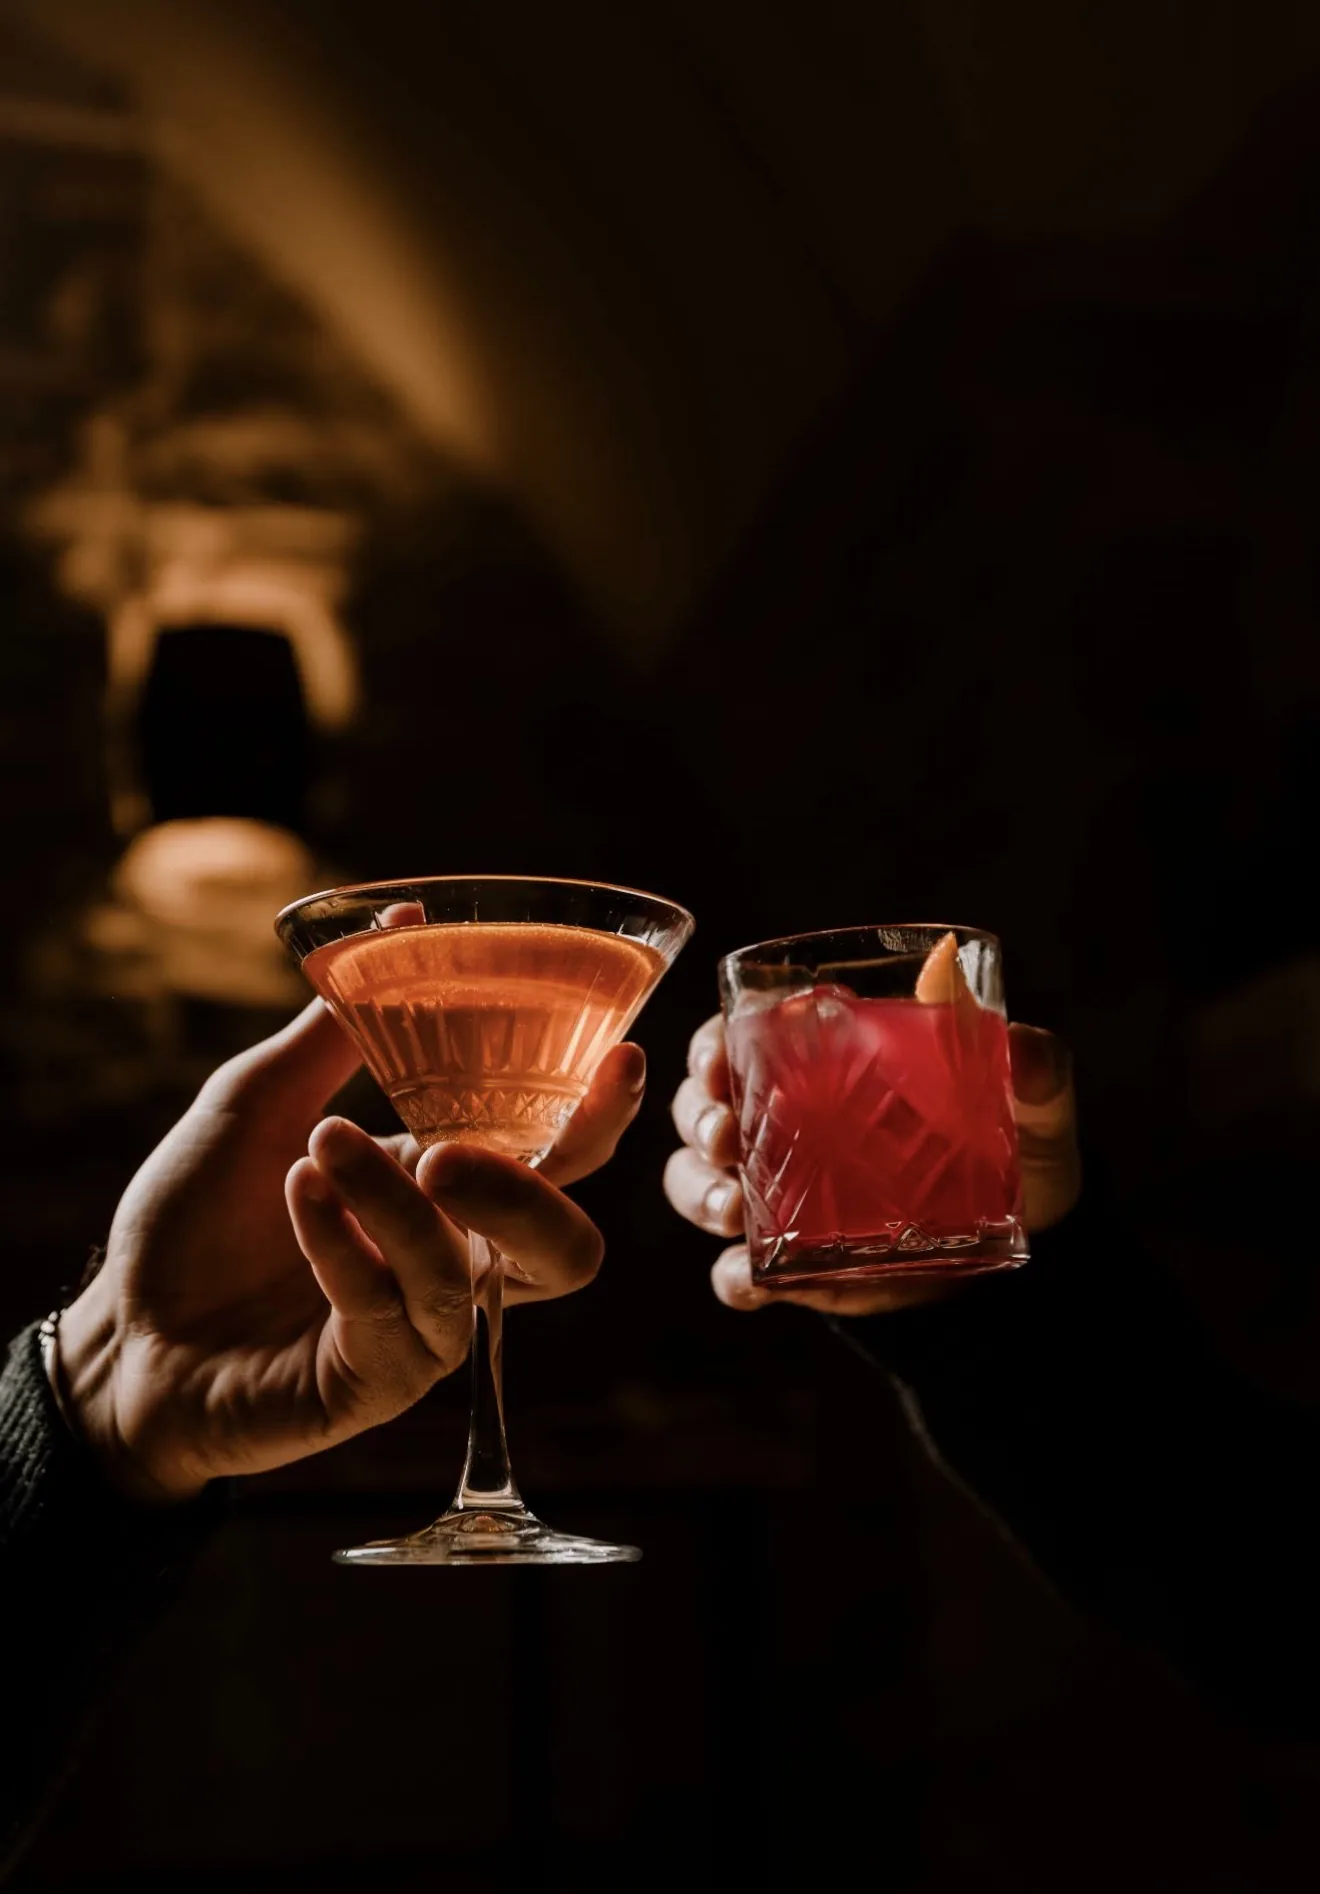
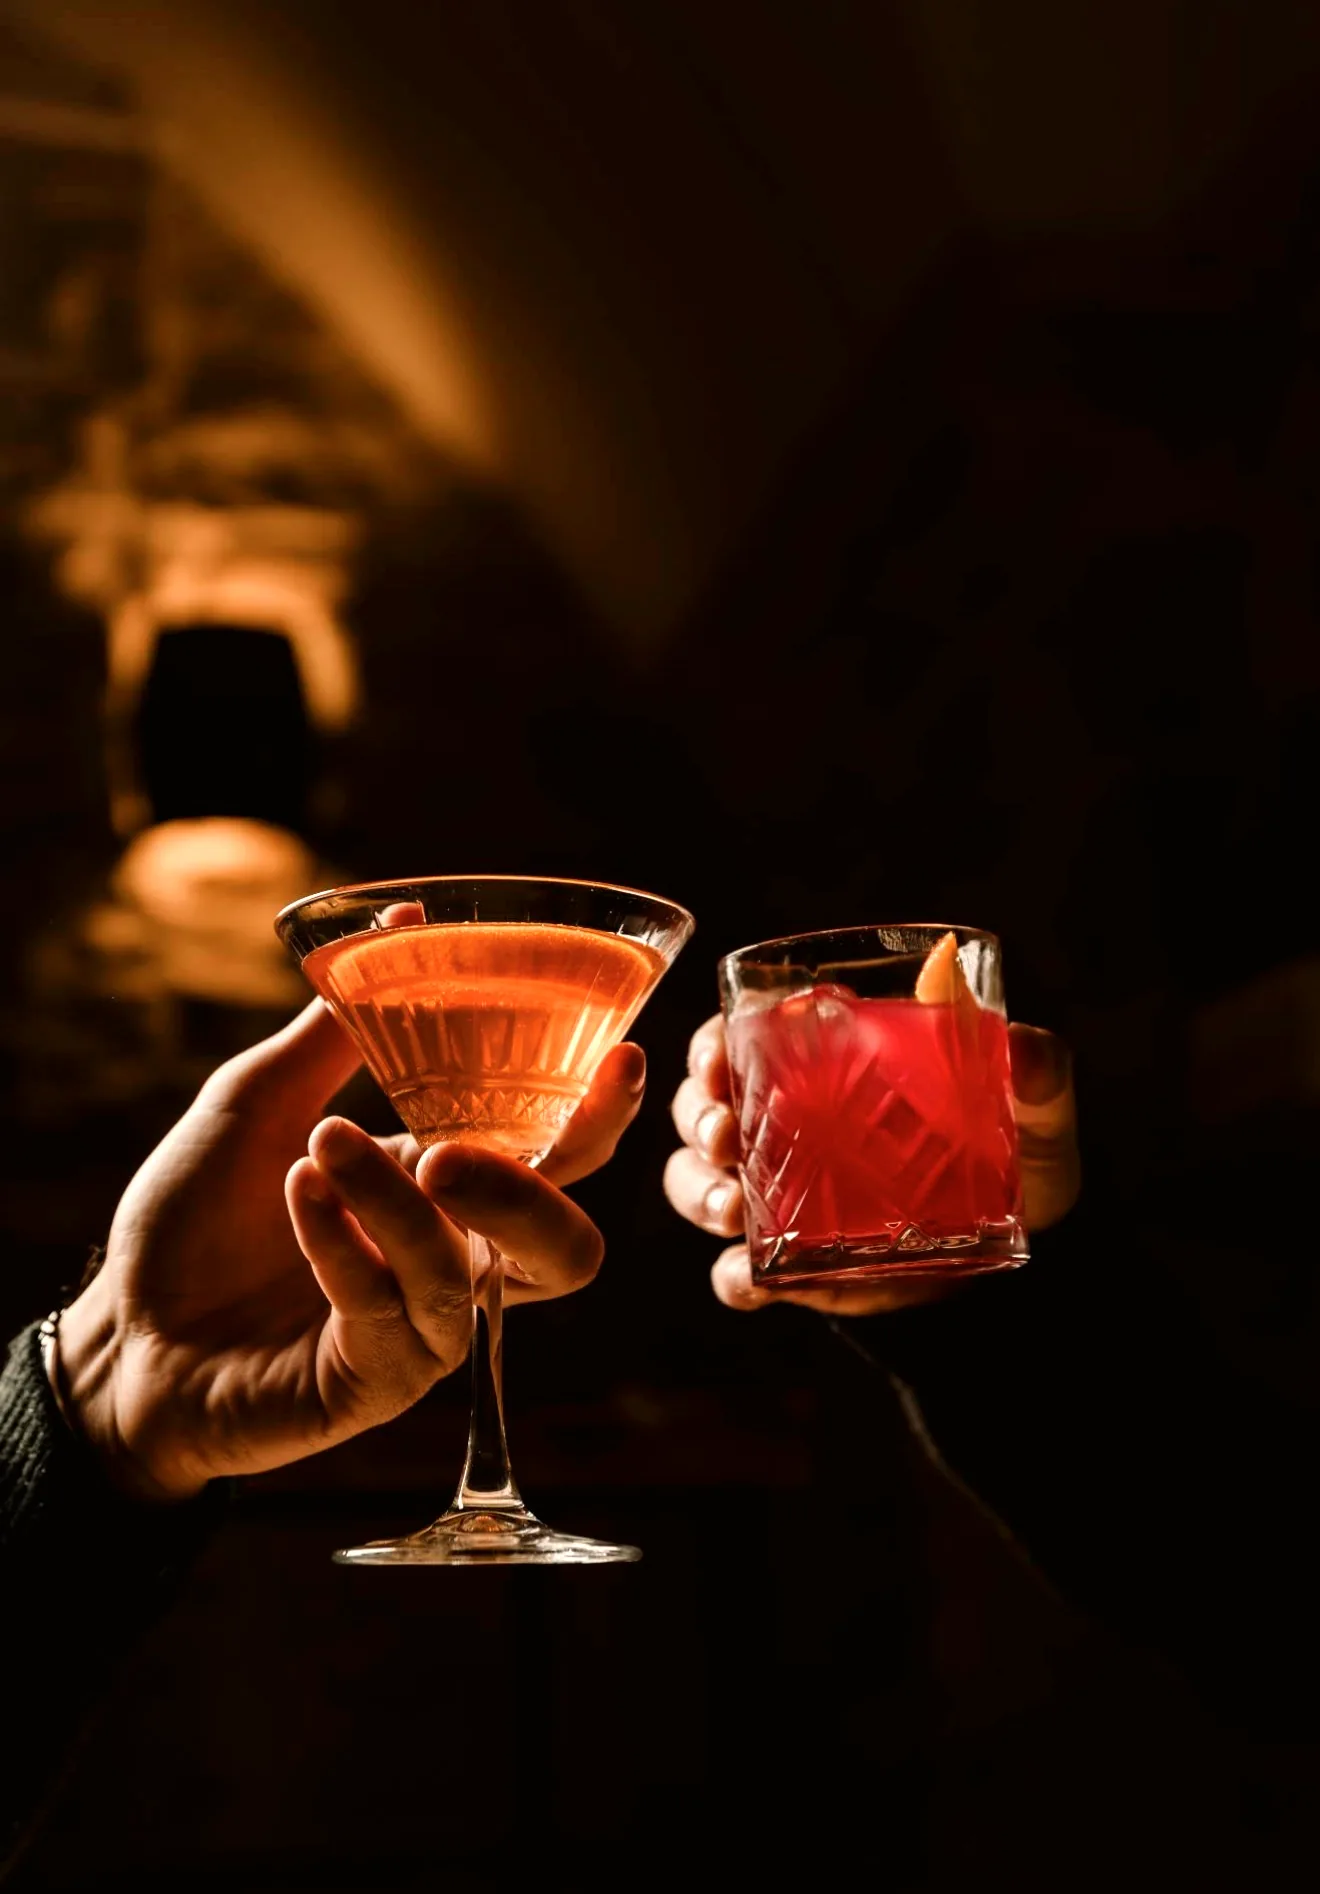
Rebalance hero overlay, warm-grade the photo, drop the 22:00 beat
- Remove the "22:00 · Nessuno si alza" timeline entry per client
  feedback (didn't like that beat) — timeline is now 19:00 / 20:30 /
  00:30
- Hero: the darkening overlay from the last legibility pass was
  hiding too much of the photo. Cut its opacity substantially and
  moved contrast work onto crisp two-layer text-shadows instead, so
  the photo — warmth, hands, glasses, the stone room — reads clearly
  while text stays fully legible everywhere it sits
- Color-graded the hero photo itself (brightness/contrast/saturation
  + a warm channel curve) so it holds up richly under the lighter
  overlay — same photo, same content, just processed for the web
  the way any real hero image would be
- Gave the hero's outline button a subtle frosted backdrop so its
  label stays readable now that the photo shows through more

diff --git a/sudivino/css/style.css b/sudivino/css/style.css
@@ -219,9 +219,9 @@ h1, h2, h3 {
   inset: 0;
   z-index: 1;
   background:
-    linear-gradient(100deg, rgba(6, 6, 8, 0.8) 0%, rgba(6, 6, 8, 0.55) 38%, rgba(6, 6, 8, 0.12) 65%, transparent 85%),
-    radial-gradient(ellipse 70% 50% at 90% 0%, rgba(226, 221, 208, 0.1), transparent 60%),
-    linear-gradient(180deg, rgba(8, 9, 12, 0.4) 0%, rgba(9, 10, 13, 0.58) 45%, rgba(6, 6, 8, 0.92) 100%);
+    linear-gradient(100deg, rgba(6, 6, 8, 0.48) 0%, rgba(6, 6, 8, 0.28) 32%, transparent 55%),
+    radial-gradient(ellipse 70% 50% at 90% 0%, rgba(226, 221, 208, 0.08), transparent 60%),
+    linear-gradient(180deg, rgba(8, 9, 12, 0.14) 0%, rgba(9, 10, 13, 0.22) 45%, rgba(6, 6, 8, 0.58) 100%);
 }
 .hero-bg::after {
   content: "";
@@ -239,7 +239,7 @@ h1, h2, h3 {
   width: 120%;
   height: 60%;
   z-index: 1;
-  background: radial-gradient(ellipse at center, rgba(6, 6, 8, 0.55), transparent 65%);
+  background: radial-gradient(ellipse at center, rgba(6, 6, 8, 0.35), transparent 65%);
   filter: blur(20px);
   pointer-events: none;
 }
@@ -251,7 +251,7 @@ h1, h2, h3 {
 .hero h1 {
   font-size: clamp(2.4rem, 6.4vw, 4.4rem);
   color: var(--text);
-  text-shadow: 0 2px 20px rgba(0, 0, 0, 0.5);
+  text-shadow: 0 1px 4px rgba(0, 0, 0, 0.85), 0 6px 28px rgba(0, 0, 0, 0.55);
 }
 .hero h1 .accent {
   color: var(--accent);
@@ -260,9 +260,9 @@ h1, h2, h3 {
 .hero .subtitle {
   margin-top: 22px;
   font-size: 1.15rem;
-  color: rgba(230, 224, 210, 0.92);
+  color: rgba(230, 224, 210, 0.95);
   max-width: 480px;
-  text-shadow: 0 1px 14px rgba(0, 0, 0, 0.55);
+  text-shadow: 0 1px 3px rgba(0, 0, 0, 0.85), 0 4px 18px rgba(0, 0, 0, 0.5);
 }
 .hero .subtitle strong {
   color: var(--text);
@@ -274,12 +274,17 @@ h1, h2, h3 {
   flex-wrap: wrap;
   gap: 14px;
 }
+.hero-ctas .btn-outline {
+  background: rgba(6, 6, 8, 0.35);
+  backdrop-filter: blur(6px);
+  border-color: rgba(244, 236, 217, 0.45);
+}
 .hero-note {
   margin-top: 22px;
   font-size: 0.9rem;
-  color: rgba(230, 224, 210, 0.85);
+  color: rgba(230, 224, 210, 0.9);
   letter-spacing: 0.02em;
-  text-shadow: 0 1px 10px rgba(0, 0, 0, 0.55);
+  text-shadow: 0 1px 3px rgba(0, 0, 0, 0.85), 0 3px 14px rgba(0, 0, 0, 0.5);
 }
 @media (max-width: 520px) {
   /* lascia spazio ai due bottoni fissi (telefono/WhatsApp) in basso a destra,

diff --git a/sudivino/index.html b/sudivino/index.html
@@ -131,11 +131,6 @@
           <p class="timeline-text">Il tavolo che era da due adesso è <strong>da cinque</strong>. Non li avevi invitati, sono passati e basta. Funziona così, in piazza.</p>
         </div>
         <div class="timeline-item">
-          <div class="timeline-time">22:00</div>
-          <div class="timeline-rail"></div>
-          <p class="timeline-text">Qualcuno propone di andare via. <strong>Nessuno si alza.</strong></p>
-        </div>
-        <div class="timeline-item">
           <div class="timeline-time">00:30</div>
           <div class="timeline-rail"></div>
           <p class="timeline-text">Domani si lavora. Ma <strong>domani è domani</strong>.</p>
